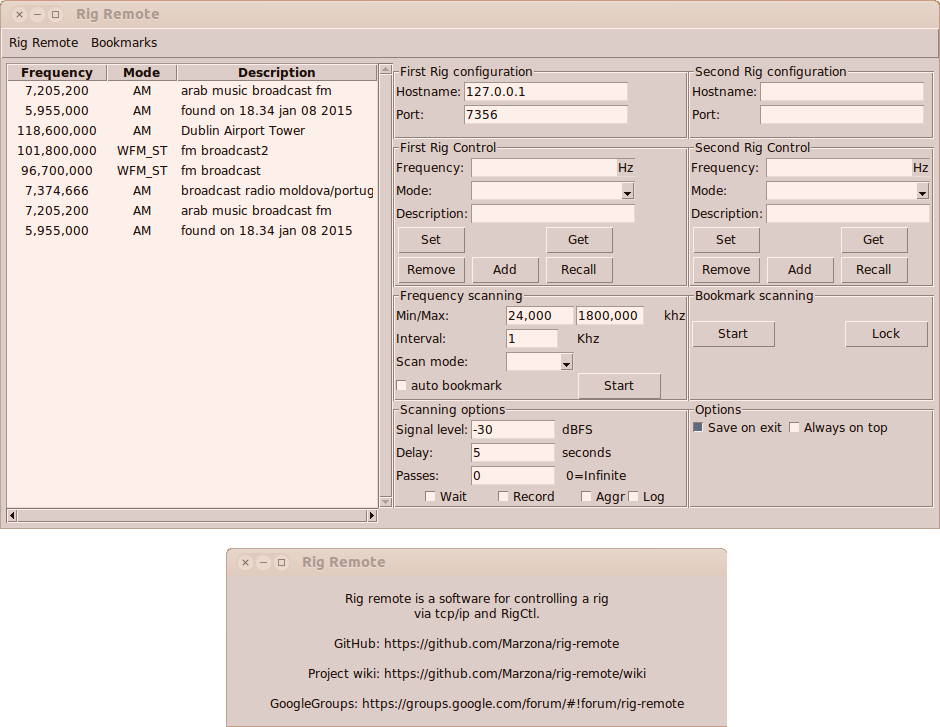
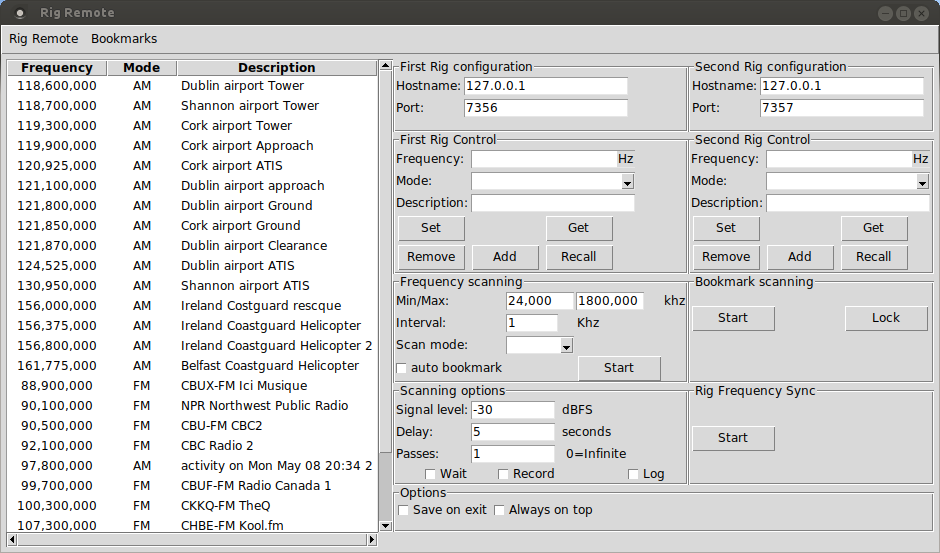
updated readme files and screenshots

diff --git a/README.md b/README.md
@@ -10,21 +10,30 @@ Some sample feature Rig-remote provides are:
 - bookmarking
 - enable/disable recording
 - enable/disable streaming
+- keep in sync the frequency of two rigs
 - ...and many more
 
-Check the wiki here on GitHub (https://github.com/Marzona/rig-remote/wiki) for more information on how Rig-remote works, there is a user guide too...
+Check the [wiki](https://github.com/Marzona/rig-remote/wiki) for more information on how Rig-remote works, there is a [user guide] (https://github.com/Marzona/rig-remote/wiki/User-Manual) too.
 
-Check the issues and milestones to see what's we are working on
+Check the [issues](https://github.com/Marzona/rig-remote/issues) and [milestones](https://github.com/Marzona/rig-remote/milestones) to see what's we are working on.
 
 Feel free to create issues for bugs, feature request or to provide us suggestions, I'll classify them accordingly.
 
-Do you want to work on this software? YAY! You're more than welcome! In the wiki there is the link to the mailing list, subscribe and ping, there is a lot of work for everybody!
+Do you want to work on this software? YAY! You're more than welcome! In the wiki there is the link to the [mailing list](https://github.com/Marzona/rig-remote/wiki), subscribe and ping, there is a lot of work for everybody!
 
-rig-remote Version 2
--------------------------------
+Notes for the users of previous versions
+---------------------------------------
 
-Added Features
---------------
+- For some reason I realized only now that the path for the configuration folder was mispelled, from this release it is .rig-remote and not .rig_remote.
+   mv ~.rig_remote ~.rig-remote
+should do the trick. Sorry for that.
+
+- Configuration format upgrade has happened... but "[config_checker](https://github.com/Marzona/rig-remote/wiki/User-Manual#config_checker) to the rescue" has happened too!
+The previous configuration file format was too weak and simple. The new one follows the standard of ini files. It has sections that makes it simple to edit manually.
+
+
+Feature highlights
+------------------
 
 - Threaded scanning of bookmarks or frequency blocks, in "police scanner" fashion.
 - Selectable infinite or limited passes.
@@ -33,52 +42,37 @@ Added Features
 - Selectable logging of scanning activity to a file.
 - On-the-fly updates of scanning parameters during active scan operation.
 - Additional user input validation checks and validation of config and bookmark files.
+- Sync between two remote rigs, so to use one as a panadapter.
+- Improved autobookmark when dealing with strong signals
+- [config_checker](https://github.com/Marzona/rig-remote/wiki/User-Manual#config_checker) is now available: provides some info on the rig-remote configuration files, diagnostics info around your python environment and configuration file format updates. This tool we will become a more complete the bug reporting tool in the next releases.
 
 TODOs/desired enhancements are listed in the issues section.
 If you find any problem feel free to create an issue, the issue will be addressed as soon as possible.
 
 ![rig-remote-linux](https://github.com/Marzona/rig-remote/blob/master/screenshots/rig-remote.png)
+![rig-remote-linux](https://github.com/Marzona/rig-remote/blob/master/screenshots/about.png)
 
-
-Version 1
-
-Features/changes
---
-
-- small ui redesign
-- Bookmark frequencies and modes
-- monitor bookmarks and frequency range
-- trigger recording, autobookmarks, streaming for the detected signals
-- Create bookmarks from the current rig frequency and mode
-- Restore rig frequency and mode (bookmark double-click)
-- Keep window always on top
-- Auto save configuration on exit
-- scan for activity between bookmarks
-- scan for activity in a frequency range
-- auto bookmark frequencies that are discovered as active
-
-Suggestions are welcome!
 
 Requirements
----
+------------
 
 - Gqrx 2.3 (or higher), or any other software that offers rigctl support.
 
 Usage
----
+-----
 
-=======
 You just need to download and run ```rig-remote.py```.
 
 For instance, using Linux / Mac OS X, you may do:
 
 bash
-=======
+====
+```
 $ git clone https://github.com/marzona/rig-remote.git
 
 $ cd rig-remote
 
-$ python ./rig-remote.py
+$ ./rig-remote.py
 
 ```
 
@@ -90,9 +84,9 @@ command-line that is always running in background you may rename
 executable instead (which does not need the command-line).
 
 This software consists of two files and two folder:
-=======
+===================================================
 - rig-remote.py
-- rig-bookmarks.csv (the bookmarks file)
+- config_checker.py
 - modules: python modules
 - tests: unit tests
 
@@ -100,5 +94,3 @@ The file `rig-bookmarks.csv` consists of a standard comma-separated
 values file. For reference, the following wiki page provides a quick
 [description of the format](https://github.com/Marzona/rig-remote/wiki/Bookmark-file-format)
 on the wiki.
-
-
